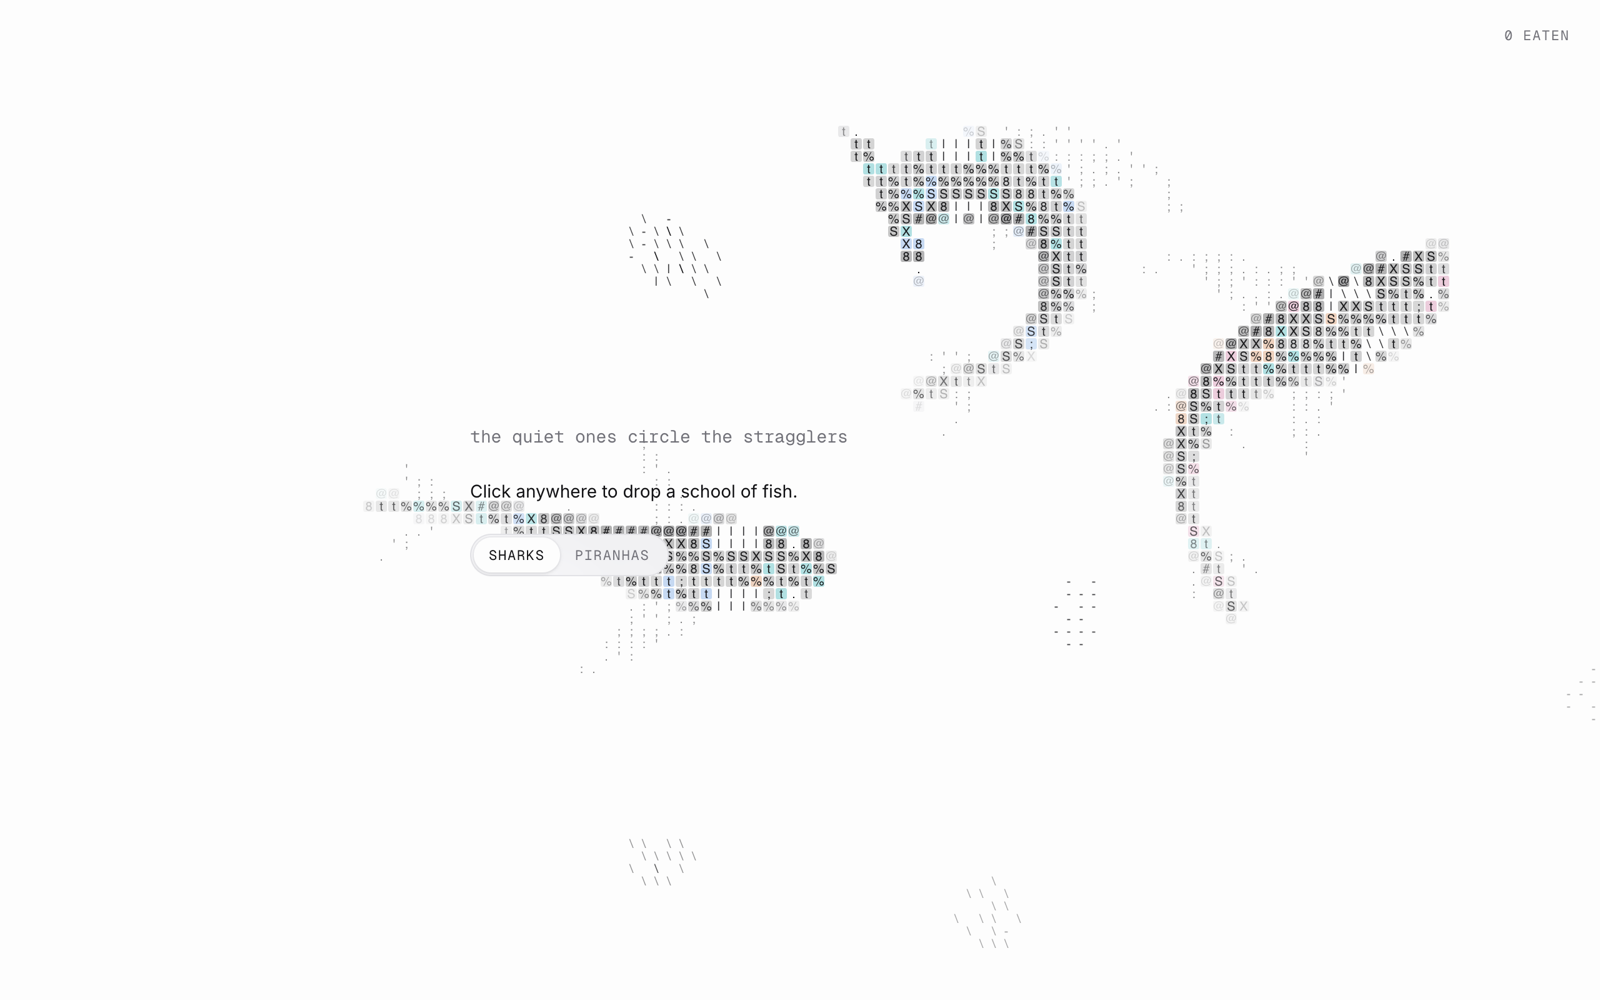
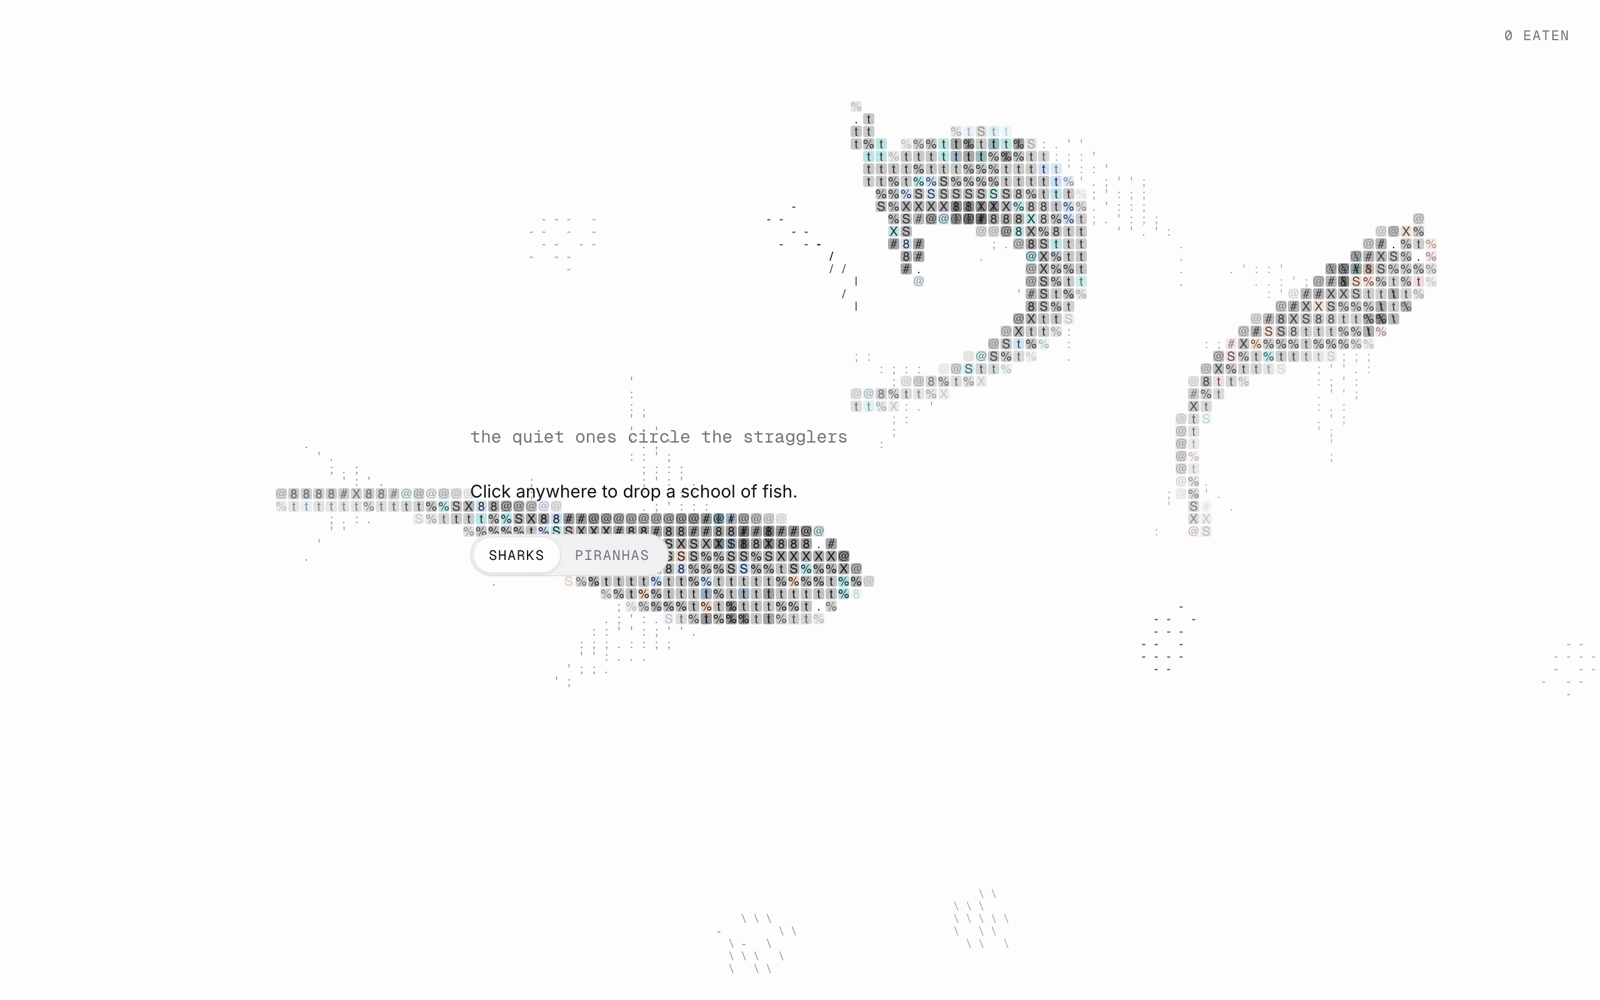
Ocean: no more holes in the sharks (gills drawn over the tiles, the bright flank keeps its tiles); fins bank into turns, three depths, a fading wake, lunges that lead the prey

diff --git a/registry/blocks/ocean.tsx b/registry/blocks/ocean.tsx
@@ -39,6 +39,8 @@ type Hunter = {
   phase: number
   /** The muted hues scattered over a shark's tiles. */
   tints: string[]
+  /** 1 near the surface → 0.55 deep: deeper sharks are smaller and dimmer, and pass under. */
+  depth: number
 }
 type Splash = { x: number; y: number; age: number; seed: number }
 /** A cloud of blood, for the piranhas. */
@@ -51,6 +53,10 @@ type Water = {
   hunters: Hunter[]
   splashes: Splash[]
   blood: Blood[]
+  /** Disturbed water behind the swimmers, per cell, fading. */
+  wake: Map<number, number>
+  cell: number
+  cols: number
   eaten: number
   onEat?: (eaten: number) => void
 }
@@ -139,7 +145,8 @@ const HAMMER: Profile = {
 }
 
 /** Is (s, a) inside a fin triangle whose base sits on the spine? */
-function inFin([s0, s1, tip, reach]: Fin, body: (s: number) => number, s: number, a: number) {
+function inFin([s0, s1, tip, reach]: Fin, body: (s: number) => number, s: number, a: number, bank = 1) {
+  reach *= bank
   const ax = s0, ay = 0
   const bx = s1, by = 0
   const cx = tip, cy = body(Math.min(1, tip)) + reach
@@ -154,7 +161,7 @@ function spawnHunter(kind: Kind, width: number, height: number, i: number, n: nu
   const unit = Math.sqrt(width * height)
   const length =
     kind === "shark"
-      ? Math.max(180, Math.min(420, unit * 0.48)) * (0.7 + r(1) * 0.3)
+      ? Math.max(180, Math.min(420, unit * 0.48)) * (1 - (i % 3) * 0.14)
       : Math.max(100, Math.min(160, unit * 0.16)) * (0.8 + r(1) * 0.3)
   const heading = r(2) * Math.PI * 2
   const x = width * (0.15 + r(3) * 0.7)
@@ -173,6 +180,7 @@ function spawnHunter(kind: Kind, width: number, height: number, i: number, n: nu
     hammer: kind === "shark" && i % 2 === 1,
     body: [],
     phase: r(8) * 10,
+    depth: kind === "shark" ? 1 - (i % 3) * 0.2 : 1,
     tints: [0, 1, 2].map((k) => `oklch(0.72 0.1 ${HUES[Math.floor(r(20 + k) * HUES.length)]})`),
     target: null,
     full: r(7) * 3,
@@ -196,6 +204,11 @@ const wrapAngle = (a: number) => Math.atan2(Math.sin(a), Math.cos(a))
 
 function step(kind: Kind, w: Water, dt: number, time: number) {
   const P = PROFILES[kind]
+  for (const [k, v] of w.wake) {
+    const next = v * Math.exp(-dt * 0.9)
+    if (next < 0.04) w.wake.delete(k)
+    else w.wake.set(k, next)
+  }
   for (const s of w.splashes) s.age += dt
   w.splashes = w.splashes.filter((s) => s.age < SPLASH_LIFE)
   for (const b of w.blood) b.age += dt
@@ -308,8 +321,11 @@ function step(kind: Kind, w: Water, dt: number, time: number) {
       want = towards(cloud.x + Math.cos(spin) * rad, cloud.y + Math.sin(spin) * rad) * 1.6
       speed = P.frenzy
     } else if (h.target) {
-      want = towards(h.target.x, h.target.y)
-      speed = P.chase
+      // Aim where the fish will be, not where it is; close in, then a short burst.
+      const gap = Math.hypot(h.target.x - hx, h.target.y - hy)
+      const lead = Math.min(1.2, gap / P.chase)
+      want = towards(h.target.x + h.target.vx * lead, h.target.y + h.target.vy * lead)
+      speed = gap < h.length * 0.45 ? P.chase * 1.6 : P.chase
       if (Math.hypot(h.target.x - hx, h.target.y - hy) < Math.max(10, h.length * P.reach * 0.5)) {
         h.target.alive = false
         h.target.back = 4 + hash(h.seed, time, 9) * 4
@@ -353,6 +369,13 @@ function step(kind: Kind, w: Water, dt: number, time: number) {
       const [bx, by] = h.spine[i]
       const d = Math.hypot(ax - bx, ay - by) || 1
       h.spine[i] = [ax - ((ax - bx) / d) * seg, ay - ((ay - by) / d) * seg]
+    }
+
+    // Leave a wake: the water behind the body stirs, then settles.
+    for (let i = Math.floor(NODES * 0.55); i < NODES; i += 2) {
+      const [x, y] = h.spine[i]
+      const key = Math.floor(y / w.cell) * w.cols + Math.floor(x / w.cell)
+      w.wake.set(key, Math.min(1, (w.wake.get(key) ?? 0) + dt * (h.speed / 40) * h.depth))
     }
 
     // The swim: a wave runs head to tail, small at the head and wide at the
@@ -408,6 +431,12 @@ function draw(kind: Kind, g: AsciiGrid, w: Water, accent: string) {
   const { cell } = g
   const cellOf = (x: number, y: number): Vec => [Math.floor(x / cell), Math.floor(y / cell)]
 
+  for (const [k, v] of w.wake) {
+    const c = k % w.cols
+    const r = Math.floor(k / w.cols)
+    g.glyph(c, r, v > 0.5 ? "~" : hash(c, r, 3) > 0.5 ? "·" : "-", g.ink, Math.min(0.32, v * 0.4))
+  }
+
   for (const b of w.bait) {
     if (!b.alive) continue
     const [c, r] = cellOf(b.x, b.y)
@@ -430,9 +459,10 @@ function draw(kind: Kind, g: AsciiGrid, w: Water, accent: string) {
     }
   }
 
-  for (const h of w.hunters) {
+  for (const h of [...w.hunters].sort((a, b) => a.depth - b.depth)) {
     const P = h.hammer ? HAMMER : PROFILES[kind]
     const L = h.length
+    const fade = 0.4 + 0.6 * h.depth
     let x0 = Infinity, y0 = Infinity, x1 = -Infinity, y1 = -Infinity
     const spine = h.body.length ? h.body : h.spine
     for (const [x, y] of spine) {
@@ -458,7 +488,7 @@ function draw(kind: Kind, g: AsciiGrid, w: Water, accent: string) {
           // Light from one side: bright flank sparse, far flank dense.
           const u = l / Math.max(1, body)
           const light = Math.max(0, Math.min(1, 0.62 - u * 0.32 - Math.abs(u) * Math.abs(u) * 0.3 + (n - 0.5) * 0.18))
-          const char = RAMP[Math.min(RAMP.length - 1, Math.floor((1 - light) * RAMP.length))]
+          const char = RAMP[Math.min(RAMP.length - 1, Math.max(2, Math.floor((1 - light) * RAMP.length)))]
           const tail = smooth(0.6, 1, s)
           // The dorsal fin, seen from above: a bright dense line down the back.
           const ridge = P.ridge && s > P.ridge[0] && s < P.ridge[1] && Math.abs(u) < 0.12
@@ -468,17 +498,19 @@ function draw(kind: Kind, g: AsciiGrid, w: Water, accent: string) {
             // slowly, like light through water.
             const t = hash(bi, bj, h.seed + Math.floor(g.time * 0.7 + n * 3))
             const tint = t < 0.16 ? h.tints[Math.floor(t * 100) % h.tints.length] : null
-            g.block(c, r, tint ?? g.ink, (tint ? 0.42 : 0.1 + (1 - light) * 0.28) * (1 - tail * 0.5) * cover)
+            g.block(c, r, tint ?? g.ink, (tint ? 0.42 : 0.17 + (1 - light) * 0.3) * (1 - tail * 0.4) * cover * fade)
           }
-          g.glyph(c, r, ridge ? "8" : char, g.ink, (ridge ? 0.9 : 0.95 - tail * 0.3) * cover)
+          g.glyph(c, r, ridge ? "8" : char, g.ink, (ridge ? 0.9 : 0.95 - tail * 0.3) * cover * fade)
           continue
         }
-        if (P.fins.some((f) => inFin(f, P.body, s, a / L))) {
+        // Into a turn the inner fin tucks and the outer one spreads (l < 0 is the fish's right).
+        const lean = Math.max(-1, Math.min(1, h.turn / P.agility)) * 0.55
+        if (P.fins.some((f, i) => inFin(f, P.body, s, a / L, i === 0 ? 1 + lean * Math.sign(l) : 1))) {
           const char = FIN[Math.floor(n * FIN.length)]
 
           // Piranhas wear their colour on the fins.
           // Fins stay lighter than the body, so the silhouette reads.
-          g.glyph(c, r, kind === "piranha" ? char : ":;.'"[Math.floor(n * 4)], kind === "piranha" ? accent : g.ink, kind === "piranha" ? 0.9 : 0.5)
+          g.glyph(c, r, kind === "piranha" ? char : ":;.'"[Math.floor(n * 4)], kind === "piranha" ? accent : g.ink, (kind === "piranha" ? 0.9 : 0.5) * fade)
         }
       }
 
@@ -491,8 +523,9 @@ function draw(kind: Kind, g: AsciiGrid, w: Water, accent: string) {
           for (const f of [0.55, 0.85]) {
             const q = point(spine, gs, side * P.body(gs) * L * f)
             const [qc, qr] = cellOf(q.x, q.y)
-            g.clear(qc, qr)
-            g.glyph(qc, qr, stroke(q.dir + Math.PI / 2), g.ink, 0.85)
+            // Drawn over the tile, never through it: a punched cell reads as a hole.
+            g.block(qc, qr, g.ink, 0.22 * fade)
+            g.glyph(qc, qr, stroke(q.dir + Math.PI / 2), g.ink, 0.85 * fade)
           }
       }
     }
@@ -553,7 +586,8 @@ export function Ocean({
     init: ({ width, height }, prev) => {
       const area = width * height
       const n = Math.max(predator === "shark" ? 1 : 3, Math.min(want, Math.round(area / (predator === "shark" ? 200000 : 60000))))
-      if (prev && prev.kind === predator && prev.hunters.length === n) return { ...prev, width, height }
+      if (prev && prev.kind === predator && prev.hunters.length === n)
+        return { ...prev, width, height, cols: Math.ceil(width / cell), wake: new Map() }
       const schools = Math.max(2, Math.round(area / 160000))
       return {
         kind: predator,
@@ -565,6 +599,9 @@ export function Ocean({
         ).flat(),
         splashes: [],
         blood: [],
+        wake: new Map(),
+        cell,
+        cols: Math.ceil(width / cell),
         eaten: prev?.eaten ?? 0,
         onEat: (k) => eat.current?.(k),
       }

diff --git a/skills/uia/references/examples.md b/skills/uia/references/examples.md
@@ -25,7 +25,7 @@ your visual reference. Screenshots are also in the uia repo under
 | Ground station | `example-ground-station` | drag-to-turn wireframe globe with orbits (front solid, back dashed), the night side shaded for volume, satellites as a small glyph along their heading, a recenter button only once turned, "in view" stat, sky plot of the pass (dashed when upcoming, live in `success`), countdown or live Mbps, onboard `MeterBar`, satellites as `WidgetListRow`s with a 3 h pass timeline + `StatusBadge`, station `Select` with mono coordinates, UTC clock ×60 in the footer and a Book CTA that books the next pass (never the one under way); switching station says "Tracking from …" where the clock is, for a moment (no toast); out-of-view rows use a hollow dot; phones drop the timelines | live tracking of things moving over a place (satellites, fleets, deliveries), any widget with a spatial view + a list of upcoming windows |
 | Purchase orders + Filter | `example-purchase-orders` | **PurchaseOrders:** status `Segmented` with mono counts (a `Select` on phones), removable date chip, supplier `Select`, search that opens from an icon; rows as a schedule — placed → delivery, `brand` fill as far as billed, dashed outline while pending, a ring for delivery, one dashed "Today" line and week lines drawn once behind the rows, legend under it; checkboxes turn the footer into bulk actions. **BillsFilter:** due-date chips that read "Sep 1" over the native picker, an amount range over its histogram (bars lit inside the range, sqrt scale), "Overdue only" switch, document types with counts, "Show N bills" counting live, Reset once changed | any list of records over time with bulk actions; any filter panel (show the distribution you are cutting, count the result on the button) |
 | Koi pond | `example-koi-pond` | an ASCII backdrop: koi as small blocks in the ink with patches in one colour, eyes punched out, whiskers and fins as strokes, swimming on a cell grid under a typed line; click drops food, rings spread in ASCII and the nearest koi turn for it; the corner counts what was eaten | landing and empty pages, a hero behind a short line; never inside a widget |
-| Ocean | `example-ocean` | an ASCII backdrop of predators and prey: bait fish as single strokes that school and scatter, predators shaded with a glyph ramp (sparse where the light falls, dense in shadow); sharks are shaded tiles (a few in the shark's own muted hues, shifting slowly) with a tail wave, swept-back pectorals, a dorsal line, gill slits and a forked tail, every second one a hammerhead, turning wide and lunging at stragglers; a piranha pack with fins in one colour; click drops a school for the sharks, or blood for the piranhas, which go into a frenzy and tear through it; the corner counts what was eaten | the same places as the koi pond: landing, empty and error pages, behind a short line |
+| Ocean | `example-ocean` | an ASCII backdrop of predators and prey: bait fish as single strokes that school and scatter, predators shaded with a glyph ramp (sparse where the light falls, dense in shadow); sharks are shaded tiles (a few in the shark's own muted hues, shifting slowly) with a tail wave, at three depths (deeper is smaller and dimmer, passing under), a fading wake, swept-back pectorals that bank into turns, a dorsal line, gill slits and a forked tail, every second one a hammerhead, turning wide and lunging at stragglers, aiming where the fish will be; a piranha pack with fins in one colour; click drops a school for the sharks, or blood for the piranhas, which go into a frenzy and tear through it; the corner counts what was eaten | the same places as the koi pond: landing, empty and error pages, behind a short line |
 | Merge conflicts | `example-merge-conflicts` | a pull request behind its base: branches as a commit graph drawn row by row (one lane per branch, curves only where a branch forks or merges, so lines stay aligned as rows arrive), the base commit that touched the same lines tagged, conflicting files as a list linked to the graph (hover dims the other commits), each file opening to both sides with a bar in its branch colour, then the resolved lines coloured by origin; one verb at a time in the footer (Merge main and resolve → Merge pull request); the merge commit arrives dashed and shimmering, files resolve one by one. Also answered in the Assistant (`?scenario=merge`) at `size="sm"` | code review, CI, any agent that fixes something in the person's repo and needs a go-ahead; any history with branches |
 | Model router | `example-model-router` | number + `Segmented` policy, flow graph linked to a list, inline controls in a sentence (Fallback if … retry on …), deploy with states | configuration with a preview, routing, A/B, policies |
 | Agent runtime | `example-agent-runtime` | small number of things with state, illustration that highlights the focused thing, list rows with badge + countdown, select → act | resources with lifecycle (jobs, agents, sandboxes, workers) |
